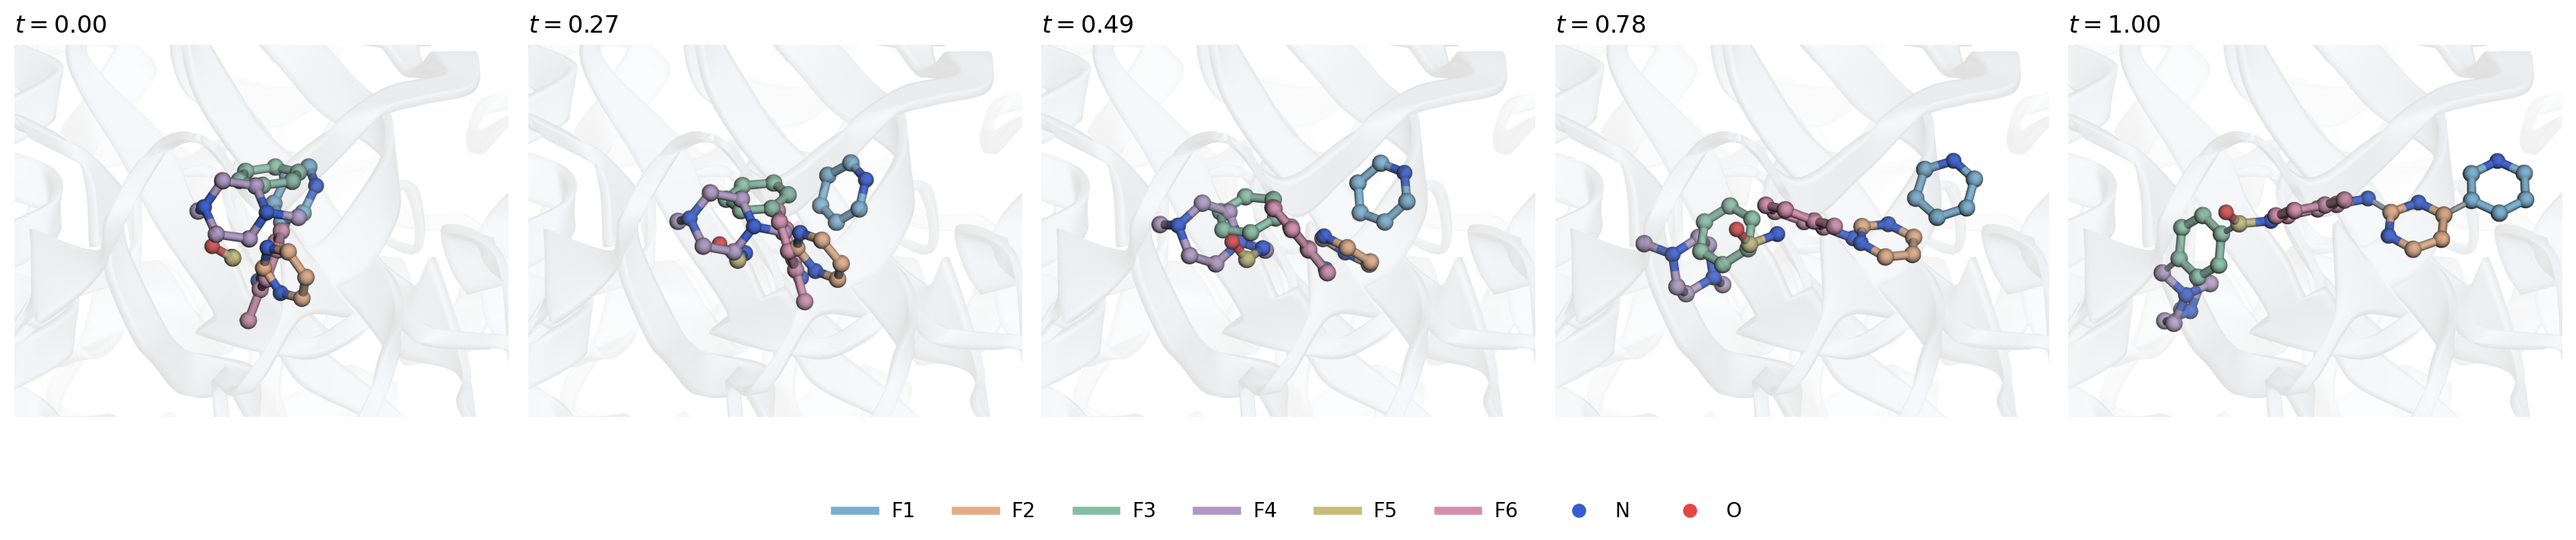
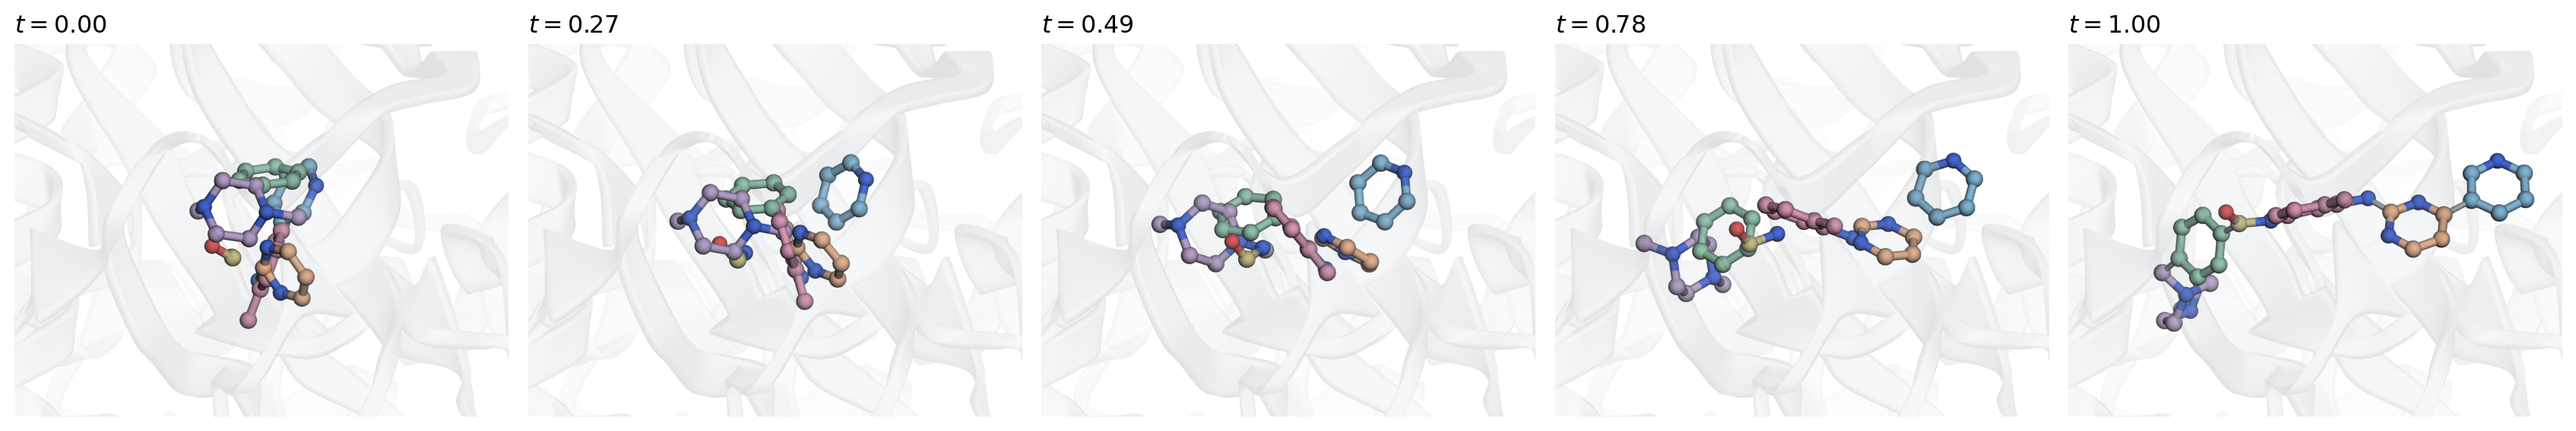
fix: remove trajectory figure legend

diff --git a/benchmarks/figures/trajectory.py b/benchmarks/figures/trajectory.py
@@ -9,7 +9,6 @@ from pathlib import Path
 
 import matplotlib.pyplot as plt
 import numpy as np
-from matplotlib.lines import Line2D
 
 from benchmarks.figures.evidence import save
 from benchmarks.figures.structure_views import ELEMENT_COLORS, JS_SHA256, JS_URL, atoms, viewer_html
@@ -175,7 +174,7 @@ def render(out):
     row = json.loads((DATA / "trace.json").read_text())
     out.mkdir(parents=True, exist_ok=True)
     with plt.rc_context({"font.size": 10, "pdf.fonttype": 42}):
-        fig, axes = plt.subplots(1, 5, figsize=(18, 4.1))
+        fig, axes = plt.subplots(1, 5, figsize=(18, 3.3))
         for ax, index in zip(axes, row["shown_indices"], strict=True):
             ax.imshow(plt.imread(DATA / f"views/frame_{index:02d}.png"))
             ax.set_axis_off()
@@ -185,13 +184,7 @@ def render(out):
                 weight="bold",
                 fontsize=12,
             )
-        handles = [Line2D([], [], color=c, lw=4, label=f"F{i + 1}") for i, c in enumerate(COLORS)]
-        handles += [
-            Line2D([], [], marker="o", color=ELEMENT_COLORS[e], ls="none", label=e)
-            for e in ("N", "O")
-        ]
-        fig.legend(handles=handles, loc="lower center", ncol=8, frameon=False)
-        fig.subplots_adjust(left=0.01, right=0.99, top=0.88, bottom=0.15, wspace=0.04)
+        fig.subplots_adjust(left=0.01, right=0.99, top=0.88, bottom=0.03, wspace=0.04)
         save(fig, out, "S10_fragment_trajectory", dpi=400)
 
 

diff --git a/docs/paper/FIGURE_CAPTIONS.md b/docs/paper/FIGURE_CAPTIONS.md
@@ -2,7 +2,7 @@
 
 현재 **21페이지 PDF** 기준: 본문용 Figure 1–11, 보충 Figure S1–S10. 최종 논문 번호는 편집 시 변경 가능하다. 각 영문 캡션은 복사해서 사용할 수 있으며, 한국어 메모는 저자 참고용이다.
 
[2 lines of base64/hex data omitted]
 
 ## 공통 Methods 메모
 
